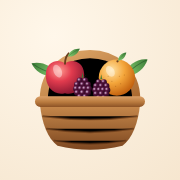
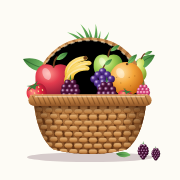
Canasta más llena, el nombre arriba y Graciela Arrigui como quien la hace
La canasta de referencia que llegó venía con marcas de agua de un banco de
imágenes, así que no se usó: se amplió la ilustración original en SVG hasta
ese nivel de fruta, dibujada en código y sin licencias ajenas.

- Piezas nuevas: uvas, pera, plátanos y el penacho de la piña, cada una con
  su degradado. Los plátanos van por delante de la manzana roja porque
  detrás solo asomaban las puntas y no se leían.
- El asa sube y pasa por delante del penacho: con la canasta más llena,
  antes quedaba tapada y la silueta perdía lo que la hace una canasta.
- Las moras siguen mandando al frente, que son el producto; las uvas se
  corrieron a la derecha para no competir con ellas.
- La variante `simple` casi no cambia: es la que va en el rótulo impreso a
  10 mm y en el favicon, donde el detalle se vuelve mancha.
- Bloque de marca al revés: el nombre arriba y la canasta debajo, en la web
  y en el rótulo impreso.
- icon.svg y apple-icon.png regenerados desde la ilustración nueva.
- Fabricante: Graciela Arrigui, que es quien hace la mermelada. Sale en la
  portada y en «Fabricado por» de la etiqueta.

Sin desborde horizontal a 390, 768 y 1440 px en las dos rutas.

Claude-Session: https://claude.ai/code/session_01FtKHdaqVLSzpnivQGHojv4

diff --git a/apps/web/src/components/Logo.jsx b/apps/web/src/components/Logo.jsx
@@ -3,10 +3,11 @@
 /**
  * Logotipo de SaborPuro — ilustración original en SVG.
  *
- * Una canasta de mimbre trenzado, con asa torcida, llena de fruta: manzana
- * roja, manzana verde, naranja, frambuesa, fresa y, al frente, las moras de
- * Castilla, que son el producto de la casa. Se dibujó desde cero en código;
- * no se calcó ni se recortó ninguna imagen de banco.
+ * Una canasta de mimbre trenzado, con asa torcida, rebosando fruta: piña,
+ * plátanos, manzana roja y verde, pera, naranja, uvas, fresas, frambuesa y,
+ * al frente, las moras de Castilla, que son el producto de la casa. Se
+ * dibujó desde cero en código; no se calcó ni se recortó ninguna imagen de
+ * banco, y por eso no arrastra marcas de agua ni licencias ajenas.
  *
  * Tres variantes:
  *  - `completo`: con volumen, brillos y trenzado. Para la web.
@@ -40,12 +41,24 @@ const SEMILLAS_FRESA = [
   [-6, 6], [0, 5], [6, 6], [-3, 11], [3, 11], [0, 15],
 ];
 
+/** Racimo de uvas: granos en triángulo, más gordos que los de la mora. */
+const GRANOS_UVA = [
+  [0, -15], [-8, -9], [8, -9],
+  [-15, -2], [0, -3], [15, -2],
+  [-9, 5], [1, 4], [10, 5],
+  [-4, 12], [5, 12],
+  [0, 19],
+];
+
 const HOJA = 'M0 0 C 9 -10 26 -12 38 -3 C 27 7 10 9 0 0 Z';
+const PERA = 'M0 -27 C 7 -27 9 -19 6 -12 C 16 -6 19 7 12 15 C 6 22 -6 22 -12 15 C -19 7 -16 -6 -6 -12 C -9 -19 -7 -27 0 -27 Z';
+const PLATANO = 'M-23 3 C -21 -13 -6 -22 13 -20 C 18 -19 19 -14 14 -13 C 1 -14 -10 -7 -13 5 C -15 11 -22 10 -23 3 Z';
+const PENACHO = 'M0 0 C 4 -16 3 -31 -1 -44 C 6 -34 10 -18 8 -2 Z';
 const MANZANA = 'M0 -17 C 7 -24 25 -22 26 -3 C 27 15 14 27 0 23 C -14 27 -27 15 -26 -3 C -25 -22 -7 -24 0 -17 Z';
 const FRESA = 'M0 -13 C 11 -14 16 -5 14 3 C 12 11 5 18 0 20 C -5 18 -12 11 -14 3 C -16 -5 -11 -14 0 -13 Z';
 const CALIZ = 'M0 -12 L -9 -15 L -4 -11 L -11 -8 L -3 -9 L 0 -5 L 3 -9 L 11 -8 L 4 -11 L 9 -15 Z';
 const CUERPO = 'M40 132 L200 132 C 197 160 188 186 172 197 Q 120 210 68 197 C 52 186 43 160 40 132 Z';
-const ASA = 'M46 124 C 46 26, 194 26, 194 124';
+const ASA = 'M46 124 C 46 16, 194 16, 194 124';
 
 function Hoja({ x, y, rot = 0, esc = 1, p }) {
   return (
@@ -67,6 +80,62 @@ function Mora({ x, y, esc = 1, p, tipo = 'mora' }) {
         <g key={`${dx}:${dy}`}>
           <circle cx={dx} cy={dy} r="3.4" fill={relleno} />
           {!p.mono && <circle cx={dx - 1.1} cy={dy - 1.2} r="1" fill={p.brillo} />}
+        </g>
+      ))}
+    </g>
+  );
+}
+
+function Uvas({ x, y, esc = 1, p }) {
+  return (
+    <g transform={`translate(${x} ${y}) scale(${esc})`}>
+      <path d="M0 -15 C 0 -21 2 -25 5 -28" stroke={p.tallo} strokeWidth="2.2" strokeLinecap="round" fill="none" />
+      <Hoja x={3} y={-26} rot={-34} esc={0.45} p={p} />
+      {GRANOS_UVA.map(([dx, dy]) => (
+        <g key={`${dx}:${dy}`}>
+          <circle cx={dx} cy={dy} r="6.4" fill={p.uva} />
+          {!p.mono && <circle cx={dx - 2} cy={dy - 2.2} r="1.8" fill={p.brillo} />}
+        </g>
+      ))}
+    </g>
+  );
+}
+
+function Pera({ x, y, esc = 1, rot = 0, p }) {
+  return (
+    <g transform={`translate(${x} ${y}) rotate(${rot}) scale(${esc})`}>
+      <path d={PERA} fill={p.pera} />
+      <path d="M0 -26 C 1 -32 3 -36 6 -38" stroke={p.tallo} strokeWidth="2.4" strokeLinecap="round" fill="none" />
+      <Hoja x={5} y={-35} rot={-30} esc={0.44} p={p} />
+      {!p.mono && <ellipse cx="-8" cy="4" rx="4.5" ry="8" transform="rotate(-18 -8 4)" fill={p.brillo} />}
+    </g>
+  );
+}
+
+/** Tres plátanos en racimo, apenas asomando por detrás de la fruta. */
+function Platanos({ x, y, esc = 1, rot = 0, p }) {
+  return (
+    <g transform={`translate(${x} ${y}) rotate(${rot}) scale(${esc})`}>
+      {[[0, 0, 0], [3, 7, 6], [-3, 13, 11]].map(([dx, dy, giro]) => (
+        <g key={`${dx}:${dy}`} transform={`translate(${dx} ${dy}) rotate(${giro})`}>
+          <path d={PLATANO} fill={p.platano} />
+          {!p.mono && (
+            <path d="M-18 0 C -14 -10 -3 -16 10 -16" stroke={p.brillo} strokeWidth="2.6" fill="none" strokeLinecap="round" />
+          )}
+        </g>
+      ))}
+      <circle cx="14" cy="-17" r="3" fill={p.tallo} />
+    </g>
+  );
+}
+
+/** Penacho de piña: el abanico verde que corona la canasta por detrás. */
+function Penacho({ x, y, esc = 1, p }) {
+  return (
+    <g transform={`translate(${x} ${y}) scale(${esc})`}>
+      {[-46, -30, -15, 0, 15, 30, 46].map((giro, i) => (
+        <g key={giro} transform={`rotate(${giro}) scale(${i % 2 ? 0.84 : 1})`}>
+          <path d={PENACHO} fill={p.penacho} />
         </g>
       ))}
     </g>
@@ -172,6 +241,7 @@ function paleta(u, mono) {
       borde: c, cuerpo: c, trenza: 'transparent', trenzaBorde: 'transparent',
       hoja: c, hojaVena: c, hojaOscura: c, tallo: c,
       manzanaRoja: c, manzanaVerde: c, naranja: c, fresa: c, mora: c, frambuesa: c,
+      uva: c, pera: c, platano: c, penacho: c,
       brillo: 'transparent', semilla: 'transparent', poro: 'transparent', sombra: 'transparent',
     };
   }
@@ -183,6 +253,7 @@ function paleta(u, mono) {
     hoja: r('hoja'), hojaVena: 'rgba(30, 72, 34, 0.55)', hojaOscura: '#3d7a3a', tallo: '#6b3e1e',
     manzanaRoja: r('manzana'), manzanaVerde: r('verde'), naranja: r('naranja'),
     fresa: r('fresa'), mora: r('mora'), frambuesa: r('frambuesa'),
+    uva: r('uva'), pera: r('pera'), platano: r('platano'), penacho: r('penacho'),
     brillo: 'rgba(255, 255, 255, 0.42)', semilla: '#f8dd8c', poro: 'rgba(120, 60, 0, 0.35)',
     sombra: 'rgba(58, 14, 36, 0.2)',
   };
@@ -218,6 +289,10 @@ function Degradados({ u }) {
       {radial('fresa', [['0', '#ff8f86'], ['0.5', '#e3283f'], ['1', '#97102c']])}
       {radial('mora', [['0', '#a2649a'], ['0.45', '#4f1239'], ['1', '#22051a']])}
       {radial('frambuesa', [['0', '#ffb0c6'], ['0.5', '#d6457e'], ['1', '#8a1c4a']])}
+      {radial('uva', [['0', '#9f7fc4'], ['0.45', '#53308c'], ['1', '#2a1050']])}
+      {radial('pera', [['0', '#f4f7a8'], ['0.5', '#c3d858'], ['1', '#7d9a2c']])}
+      {lineal('platano', [['0', '#ffe9a0'], ['0.5', '#f6cc4a'], ['1', '#d79a12']], '0.3', '1')}
+      {lineal('penacho', [['0', '#7fc96a'], ['1', '#2f6b32']], '0.4', '1')}
       <clipPath id={`${u}-cuerpo`}>
         <path d={CUERPO} />
       </clipPath>
@@ -260,7 +335,12 @@ export function Emblema({
       {/* Sombra en la mesa */}
       {!simple && <ellipse cx="120" cy="208" rx="90" ry="7" fill={p.sombra} />}
 
-      {/* Asa torcida */}
+      {/* Penacho de la piña y hojas: lo único que asoma por detrás del asa */}
+      {!simple && <Penacho x={118} y={58} esc={0.95} p={p} />}
+      {!mono && <Hoja x={62} y={84} rot={-152} esc={simple ? 1.15 : 1.08} p={p} />}
+      {!mono && <Hoja x={178} y={84} rot={-28} esc={simple ? 1.15 : 1.08} p={p} />}
+
+      {/* Asa torcida: cruza por delante del penacho y por detrás de la fruta */}
       <path d={ASA} stroke={p.asa} strokeWidth={simple ? 13 : 12} strokeLinecap="round" />
       {!simple && (
         <>
@@ -269,24 +349,25 @@ export function Emblema({
         </>
       )}
 
-      {/* Hojas del fondo */}
-      {!mono && <Hoja x={66} y={84} rot={-150} esc={simple ? 1.15 : 1.05} p={p} />}
-      {!mono && <Hoja x={176} y={84} rot={-30} esc={simple ? 1.15 : 1.05} p={p} />}
-      {!simple && <Hoja x={126} y={56} rot={-98} esc={0.82} p={p} />}
+      {/* Fruta de atrás: manzana verde y pera asomando */}
+      {!simple && <Manzana x={146} y={78} esc={0.8} p={p} verde />}
+      {!simple && <Pera x={190} y={86} esc={0.72} rot={10} p={p} />}
 
-      {/* Fruta de atrás */}
-      {!simple && <Manzana x={123} y={72} esc={0.86} p={p} verde />}
-      <Manzana x={80} y={86} esc={simple ? 1.18 : 1.1} p={p} />
-      <Naranja x={163} y={88} r={simple ? 29 : 27} p={p} />
+      {/* Fruta media. Los plátanos van por DELANTE de la manzana roja: si
+          quedan detrás solo asoman las puntas y no se leen. */}
+      <Manzana x={simple ? 74 : 68} y={simple ? 90 : 96} esc={simple ? 1.18 : 1} p={p} />
+      {!simple && <Platanos x={104} y={84} esc={0.92} rot={-12} p={p} />}
+      <Naranja x={simple ? 166 : 172} y={simple ? 92 : 96} r={simple ? 29 : 24} p={p} />
+      {!simple && <Uvas x={138} y={98} esc={0.82} p={p} />}
 
-      {/* Fruta del frente */}
-      {!simple && <Fresa x={52} y={108} esc={1.12} rot={-24} p={p} />}
-      {!simple && <Mora x={184} y={108} esc={1.05} p={p} tipo="frambuesa" />}
-      {!simple && <Mora x={120} y={90} esc={1.05} p={p} />}
-      <Mora x={simple ? 108 : 102} y={simple ? 106 : 106} esc={simple ? 1.45 : 1.28} p={p} />
-      <Mora x={simple ? 138 : 138} y={simple ? 108 : 105} esc={simple ? 1.4 : 1.32} p={p} />
-      {!simple && <Hoja x={152} y={118} rot={14} esc={0.6} p={p} />}
-      {!simple && <Hoja x={86} y={121} rot={166} esc={0.6} p={p} />}
+      {/* Fruta del frente: las moras mandan, que son el producto */}
+      {!simple && <Fresa x={44} y={116} esc={1} rot={-26} p={p} />}
+      {!simple && <Mora x={196} y={116} esc={0.95} p={p} tipo="frambuesa" />}
+      <Mora x={simple ? 108 : 92} y={simple ? 106 : 114} esc={simple ? 1.45 : 1.36} p={p} />
+      <Mora x={simple ? 138 : 144} y={simple ? 108 : 118} esc={simple ? 1.4 : 1.42} p={p} />
+      {!simple && <Fresa x={170} y={122} esc={0.76} rot={20} p={p} />}
+      {!simple && <Hoja x={158} y={126} rot={12} esc={0.55} p={p} />}
+      {!simple && <Hoja x={76} y={128} rot={168} esc={0.55} p={p} />}
 
       {/* Cuerpo de la canasta */}
       <path d={CUERPO} fill={p.cuerpo} opacity={mono ? 0.85 : 1} />
@@ -335,15 +416,15 @@ export function Marca({ className = '' }) {
 }
 
 /**
- * Bloque de marca: la canasta ARRIBA y el nombre debajo, centrados.
+ * Bloque de marca: el nombre ARRIBA y la canasta debajo, centrados.
  * `tamano` es el ancho de la canasta en px; el nombre escala con él
  * a través de la variable --logo-tamano.
  */
 export function Logotipo({ tamano = 72, detalle = 'completo', className = '', decorativo = false }) {
   return (
     <span className={`logotipo ${className}`} style={{ '--logo-tamano': `${tamano}px` }}>
-      <Emblema tamano={tamano} detalle={detalle} className="logotipo__emblema" decorativo />
       <Marca className="logotipo__nombre" />
+      <Emblema tamano={tamano} detalle={detalle} className="logotipo__emblema" decorativo />
     </span>
   );
 }

diff --git a/apps/web/src/components/etiquetas/Hojas.jsx b/apps/web/src/components/etiquetas/Hojas.jsx
@@ -26,15 +26,15 @@ export const EtiquetaImpresa = forwardRef(function EtiquetaImpresa({ r, barras, 
       style={{ '--escala': imp.escalaTexto / 100 }}
     >
       <div className="etq__cabecera">
-        {/* La canasta va ARRIBA del nombre, también en el rótulo impreso. */}
+        {/* El nombre va ARRIBA de la canasta, también en el rótulo impreso. */}
         <p className={`etq__marca ${r.marca.mostrarCanasta ? '' : 'etq__marca--solo-nombre'}`}>
-          {r.marca.mostrarCanasta && (
-            <Emblema tamano={40} detalle="simple" className="etq__emblema" decorativo />
-          )}
           <span className="etq__nombre marca-wm">
             <span className="marca-wm__sabor">{r.marca.parte1}</span>
             {conNombre2 && <span className="marca-wm__puro">{r.marca.parte2}</span>}
           </span>
+          {r.marca.mostrarCanasta && (
+            <Emblema tamano={40} detalle="simple" className="etq__emblema" decorativo />
+          )}
         </p>
         <div className="etq__textos">
           <p className="etq__denominacion">{r.denominacion}</p>

diff --git a/apps/web/src/app/page.jsx b/apps/web/src/app/page.jsx
@@ -23,12 +23,12 @@ export default function Pagina() {
       <header className="hero" id="inicio">
         <div className="envoltura hero__rejilla">
           <div className="hero__texto">
-            {/* La canasta va ARRIBA del nombre: es el bloque de marca. */}
+            {/* El nombre va ARRIBA de la canasta: es el bloque de marca. */}
             <div className="hero__marca carga-1">
-              <Emblema tamano={220} className="hero__emblema" titulo="Canasta de fruta de SaborPuro" />
               <h1 className="hero__titulo">
                 <span className="hero__sabor">Sabor</span><span className="hero__puro">Puro</span>
               </h1>
+              <Emblema tamano={220} className="hero__emblema" titulo="Canasta de fruta de SaborPuro" />
             </div>
             <p className="hero__sub carga-2">{marca.descriptor}</p>
             <p className="plomo carga-2">

diff --git a/packages/brand/src/tokens.js b/packages/brand/src/tokens.js
@@ -20,7 +20,9 @@ export const marca = {
   nombreCorto: 'SaborPuro',
   descriptor: 'Mermelada artesanal de mora',
   eslogan: 'Del cultivo a la mesa, sin atajos',
-  razonSocial: 'Mujeres Usmeñas',
+  razonSocial: 'Graciela Arrigui',
+  // Quien elabora la mermelada; es lo que sale impreso en «Fabricado por».
+  elaboradaPor: 'Graciela Arrigui',
   nit: 'PENDIENTE — NIT',
   direccion: 'TV 7D 67-80 sur, Monteblanco',
   localidad: 'Usme',

diff --git a/apps/web/src/app/impresion.css b/apps/web/src/app/impresion.css
@@ -49,7 +49,7 @@
   gap: 2.4cqw;
 }
 
-/* Bloque de marca: la canasta ARRIBA del nombre. */
+/* Bloque de marca: el nombre ARRIBA de la canasta. */
 .etq__marca {
   display: flex;
   flex-direction: column;
@@ -63,7 +63,7 @@
 .etq__nombre {
   font-size: calc(3.7cqw * var(--escala));
   white-space: nowrap;
-  margin-top: 0.2cqw;
+  margin-bottom: 0.2cqw;
 }
 
 .etq__marca--solo-nombre .etq__nombre { font-size: calc(5cqw * var(--escala)); }

diff --git a/apps/web/src/app/globals.css b/apps/web/src/app/globals.css
@@ -460,7 +460,7 @@ code, .mono { font-family: var(--f-mono); font-size: 0.92em; }
 .hero__emblema {
   width: clamp(140px, 15vw, 196px);
   height: auto;
-  margin-bottom: -4px;
+  margin-top: -6px;
   filter: drop-shadow(0 18px 22px rgba(58, 14, 36, 0.22));
 }
 
